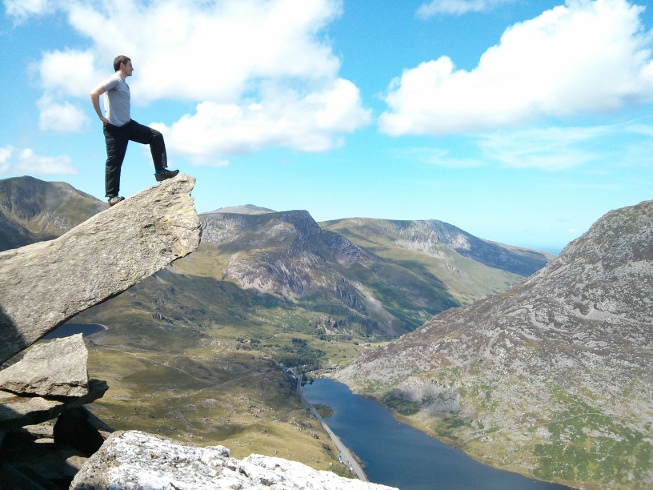
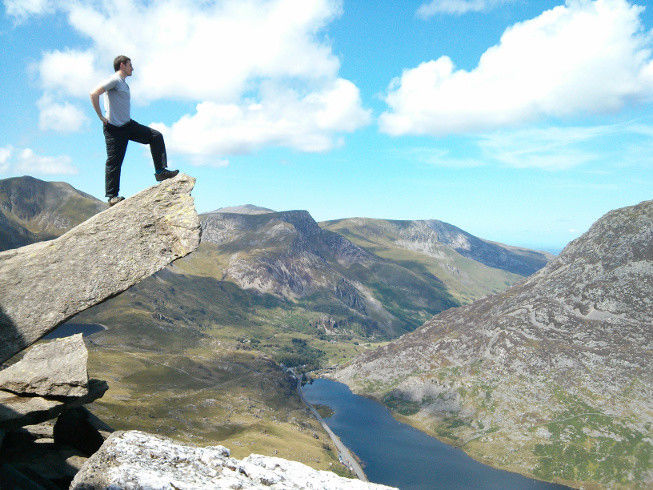
Optimise image sizes

diff --git a/_includes/sidebar.html b/_includes/sidebar.html
@@ -2,7 +2,7 @@
     <div class="profile-wrapper">
         <a href="{{ site.baseurl }}/">
             <div class="profile-container">
-                <img class="profile-img" src="/images/profile.jpg" alt="profile picture" />
+                <img class="profile-img" src="/images/profile-120px.jpg" alt="profile picture" />
                 <h1 class="name">{{site.title}}</h1>
                 <h3 class="tagline">Cat-Brain Uplink On</h3>
             </div>
